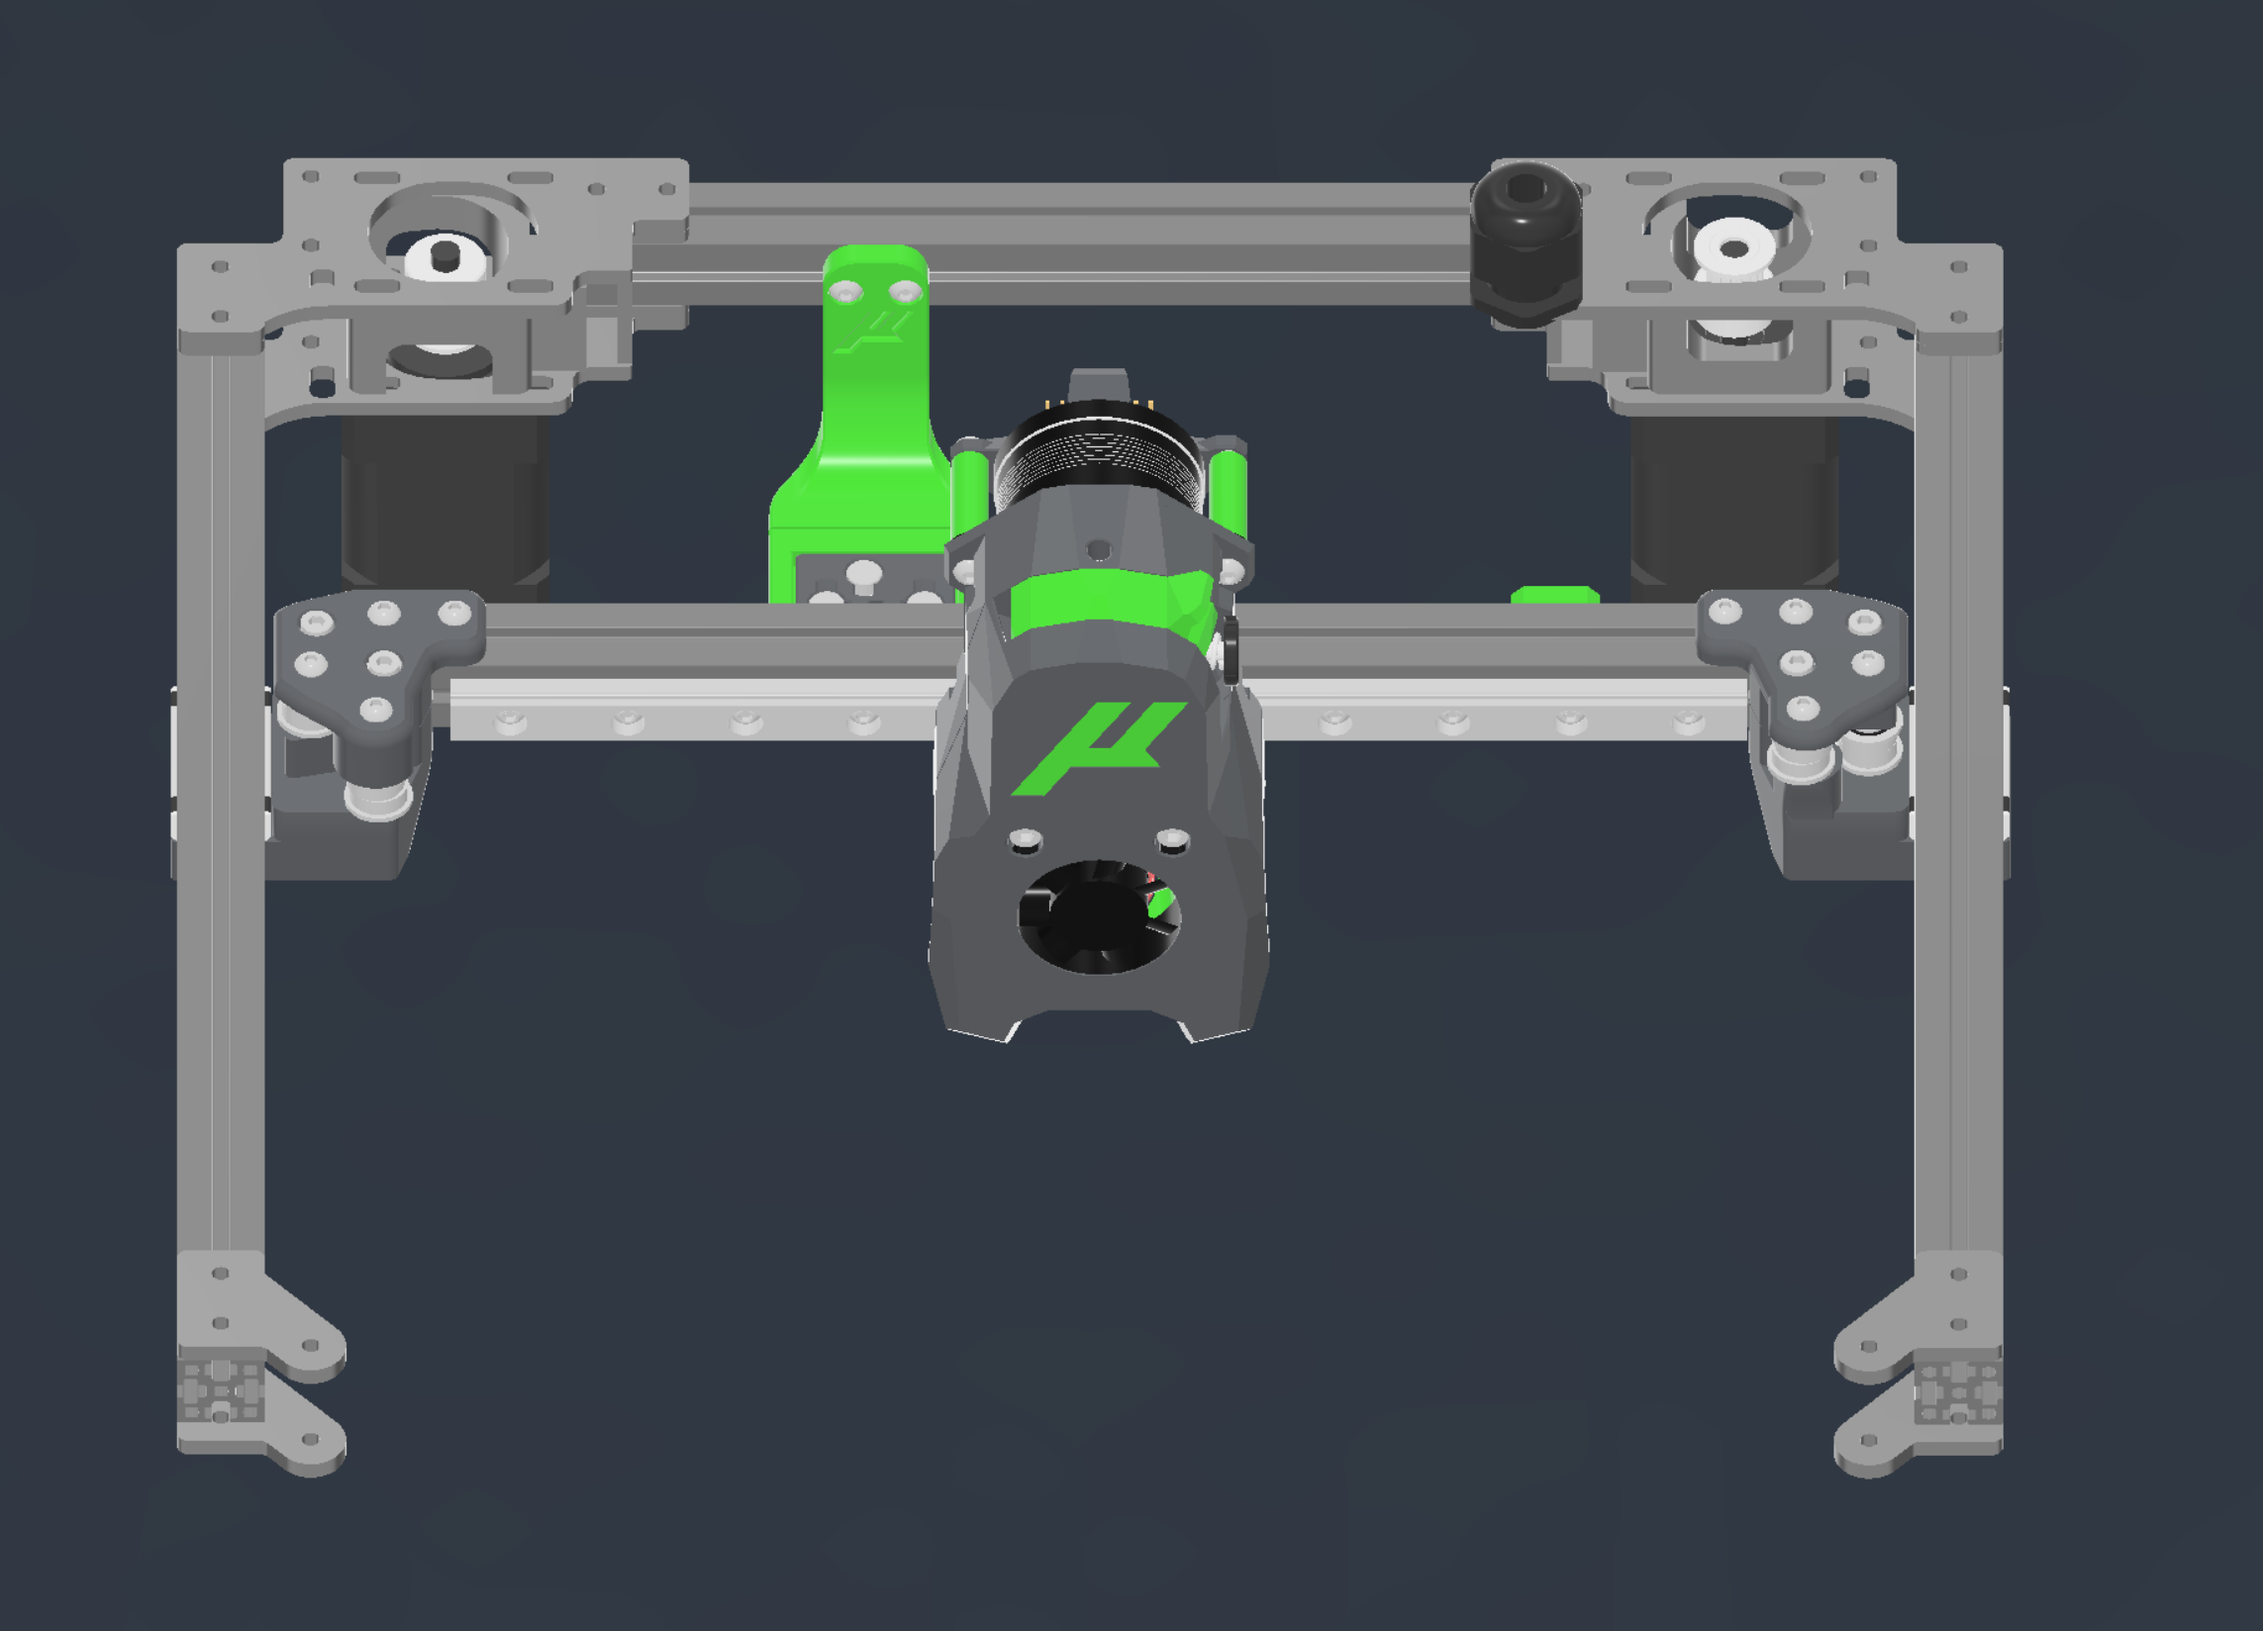
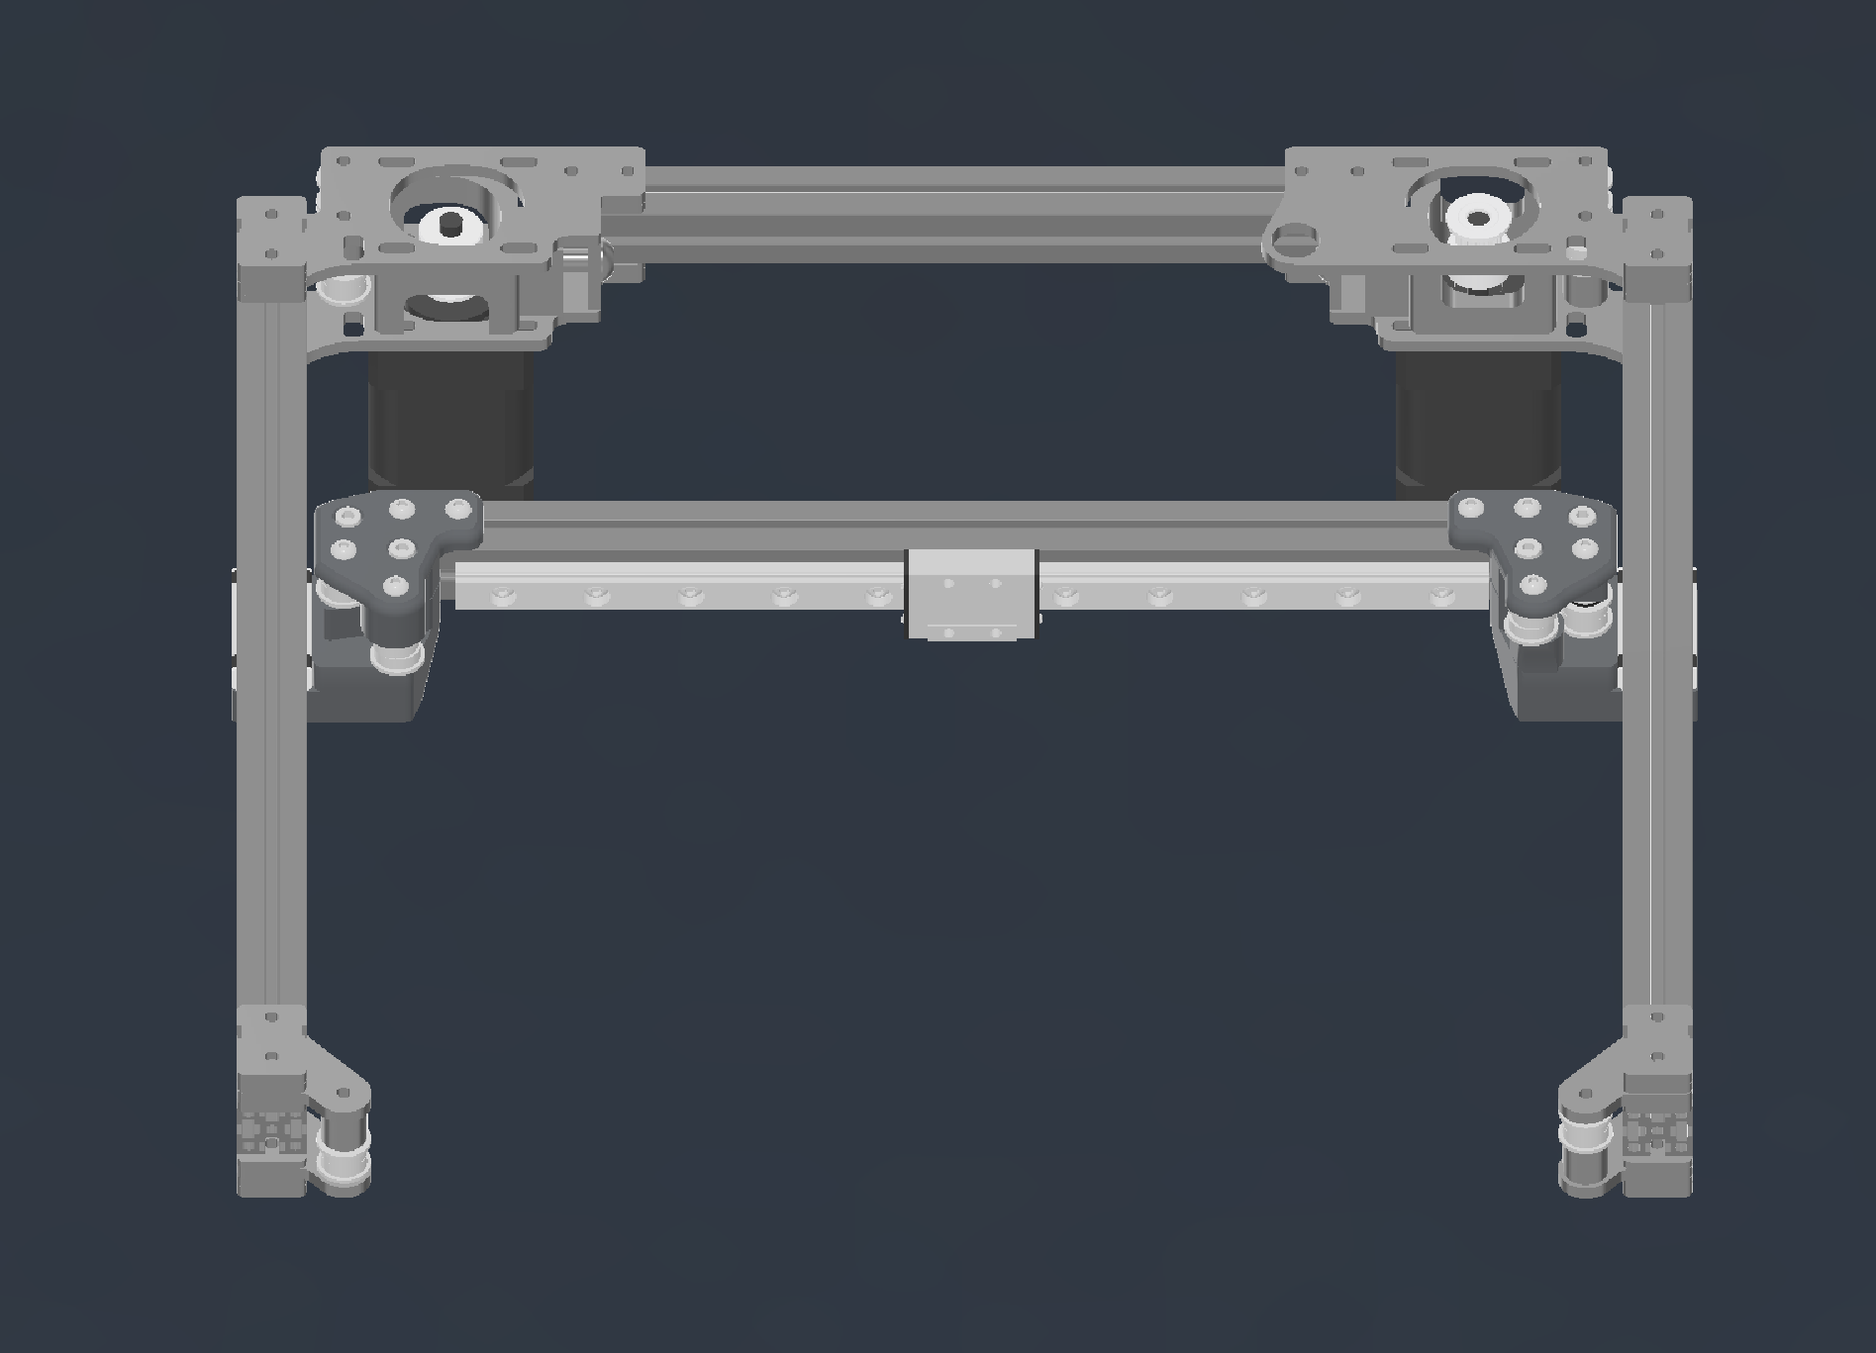
Micron Updates
New Gantry image and text updates.

Changed region(s): [[0.0623, 0.0922, 0.9029, 0.9217], [0.6538, 0.338, 0.7161, 0.3687]]

diff --git a/docs/micron.md b/docs/micron.md
@@ -5,7 +5,7 @@ hide:
 
 # Micron Metal AB Drives
 
-** NOTE: These are still in testing and will probably kick your dog and light your house on fire. __Don't get them cut yet.__ **
+NOTE: These are still in testing and will probably kick your dog and light your house on fire. __Don't get them cut yet.__
 
 An offshoot of the AWD plates, this is just a shrunk down version to allow higher current to be run on Microns.
 
@@ -14,7 +14,7 @@ You can find the repo here: [https://github.com/aTinyShellScript/metal_micron](h
 ![Gantry](images/micron_gantry.png)
 
 ## Printed Parts
-Some bits still have to be printed.
+You need to print all the bits in the STL folder.
 
 ## BOM
     * 2x M5x20mm
@@ -25,4 +25,4 @@ Some bits still have to be printed.
 
 ## Assembly
 
-Coming Soon™
+Coming Soon™ (Nah, just look at the CAD)
